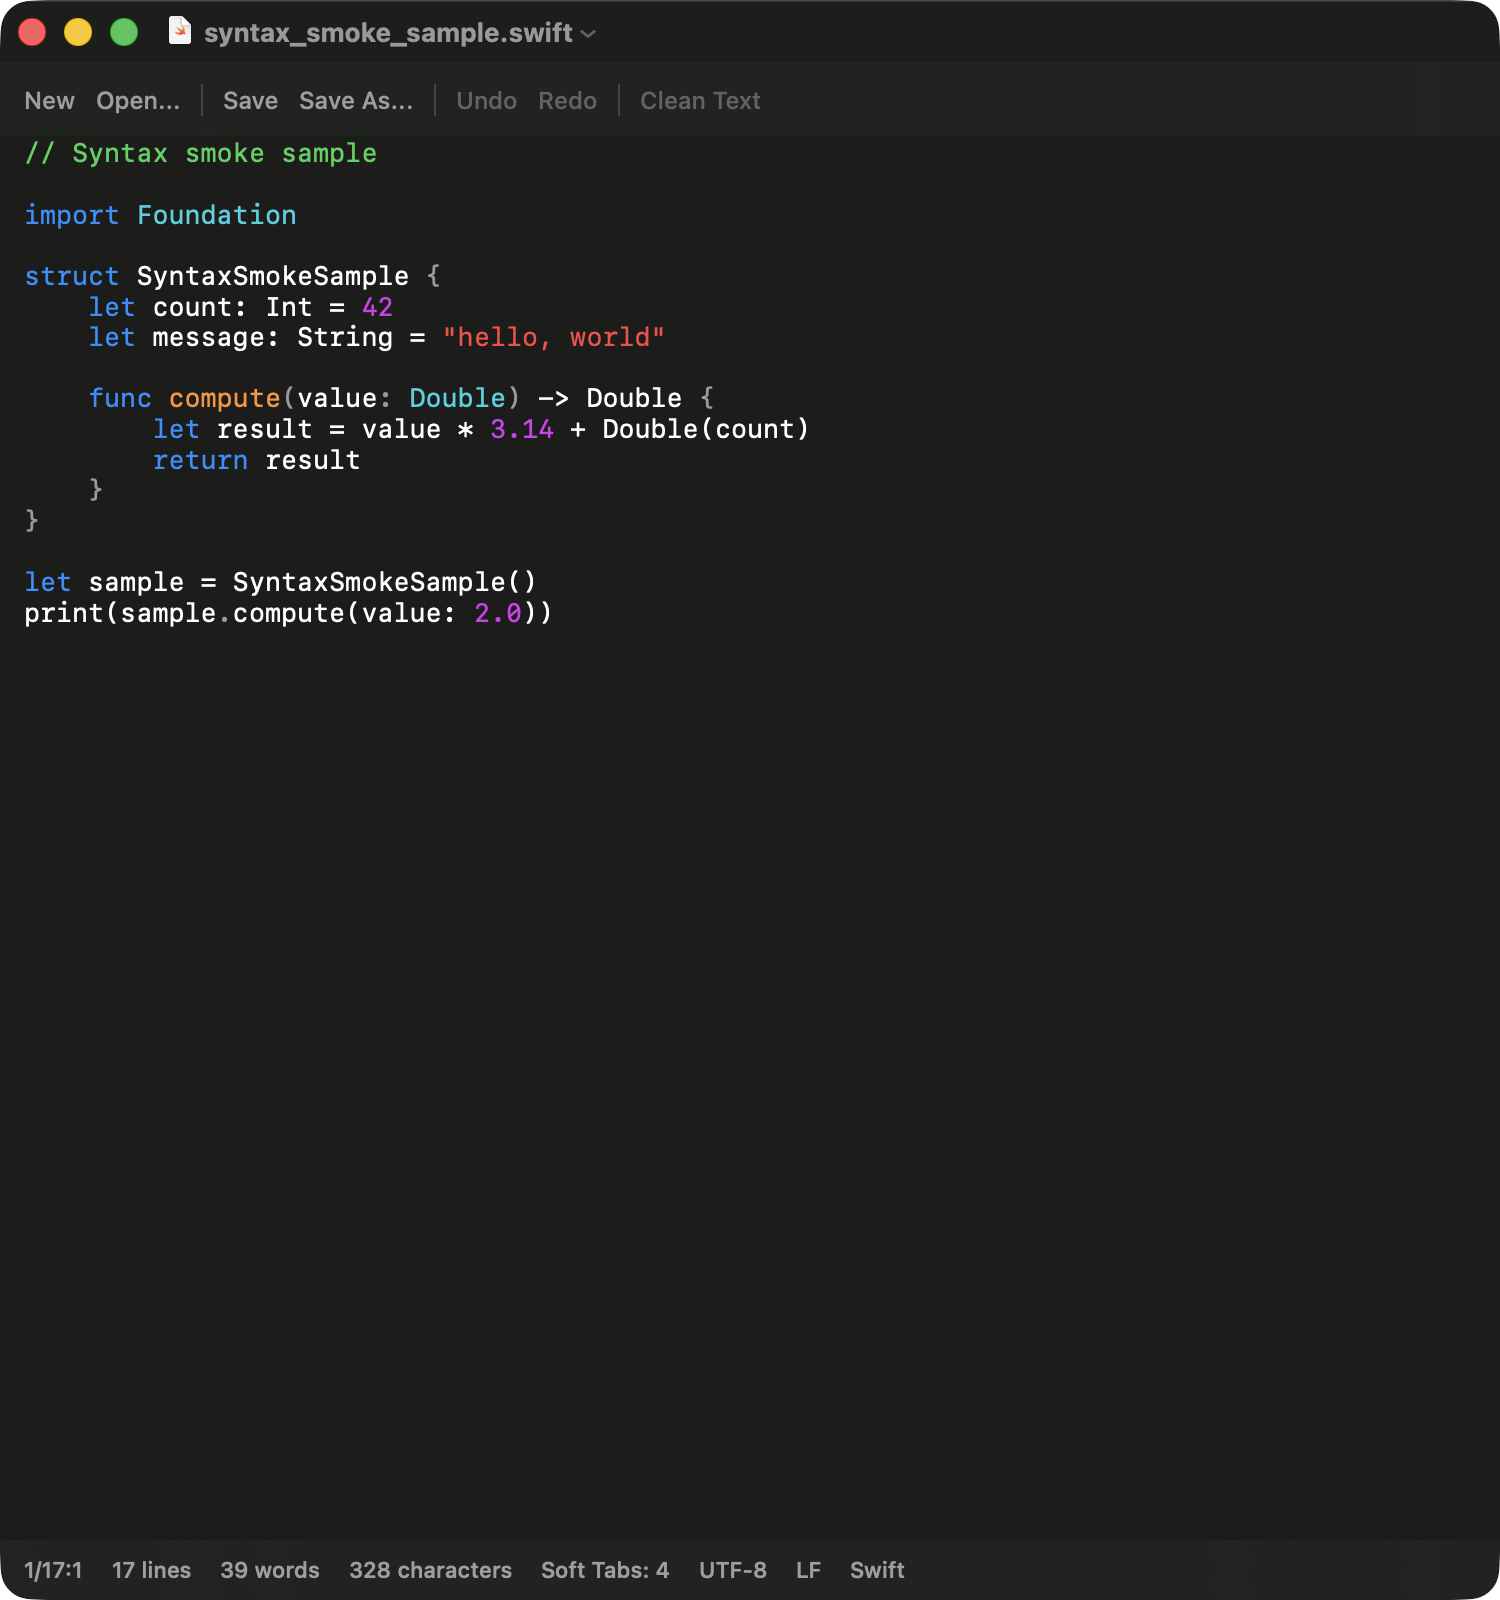
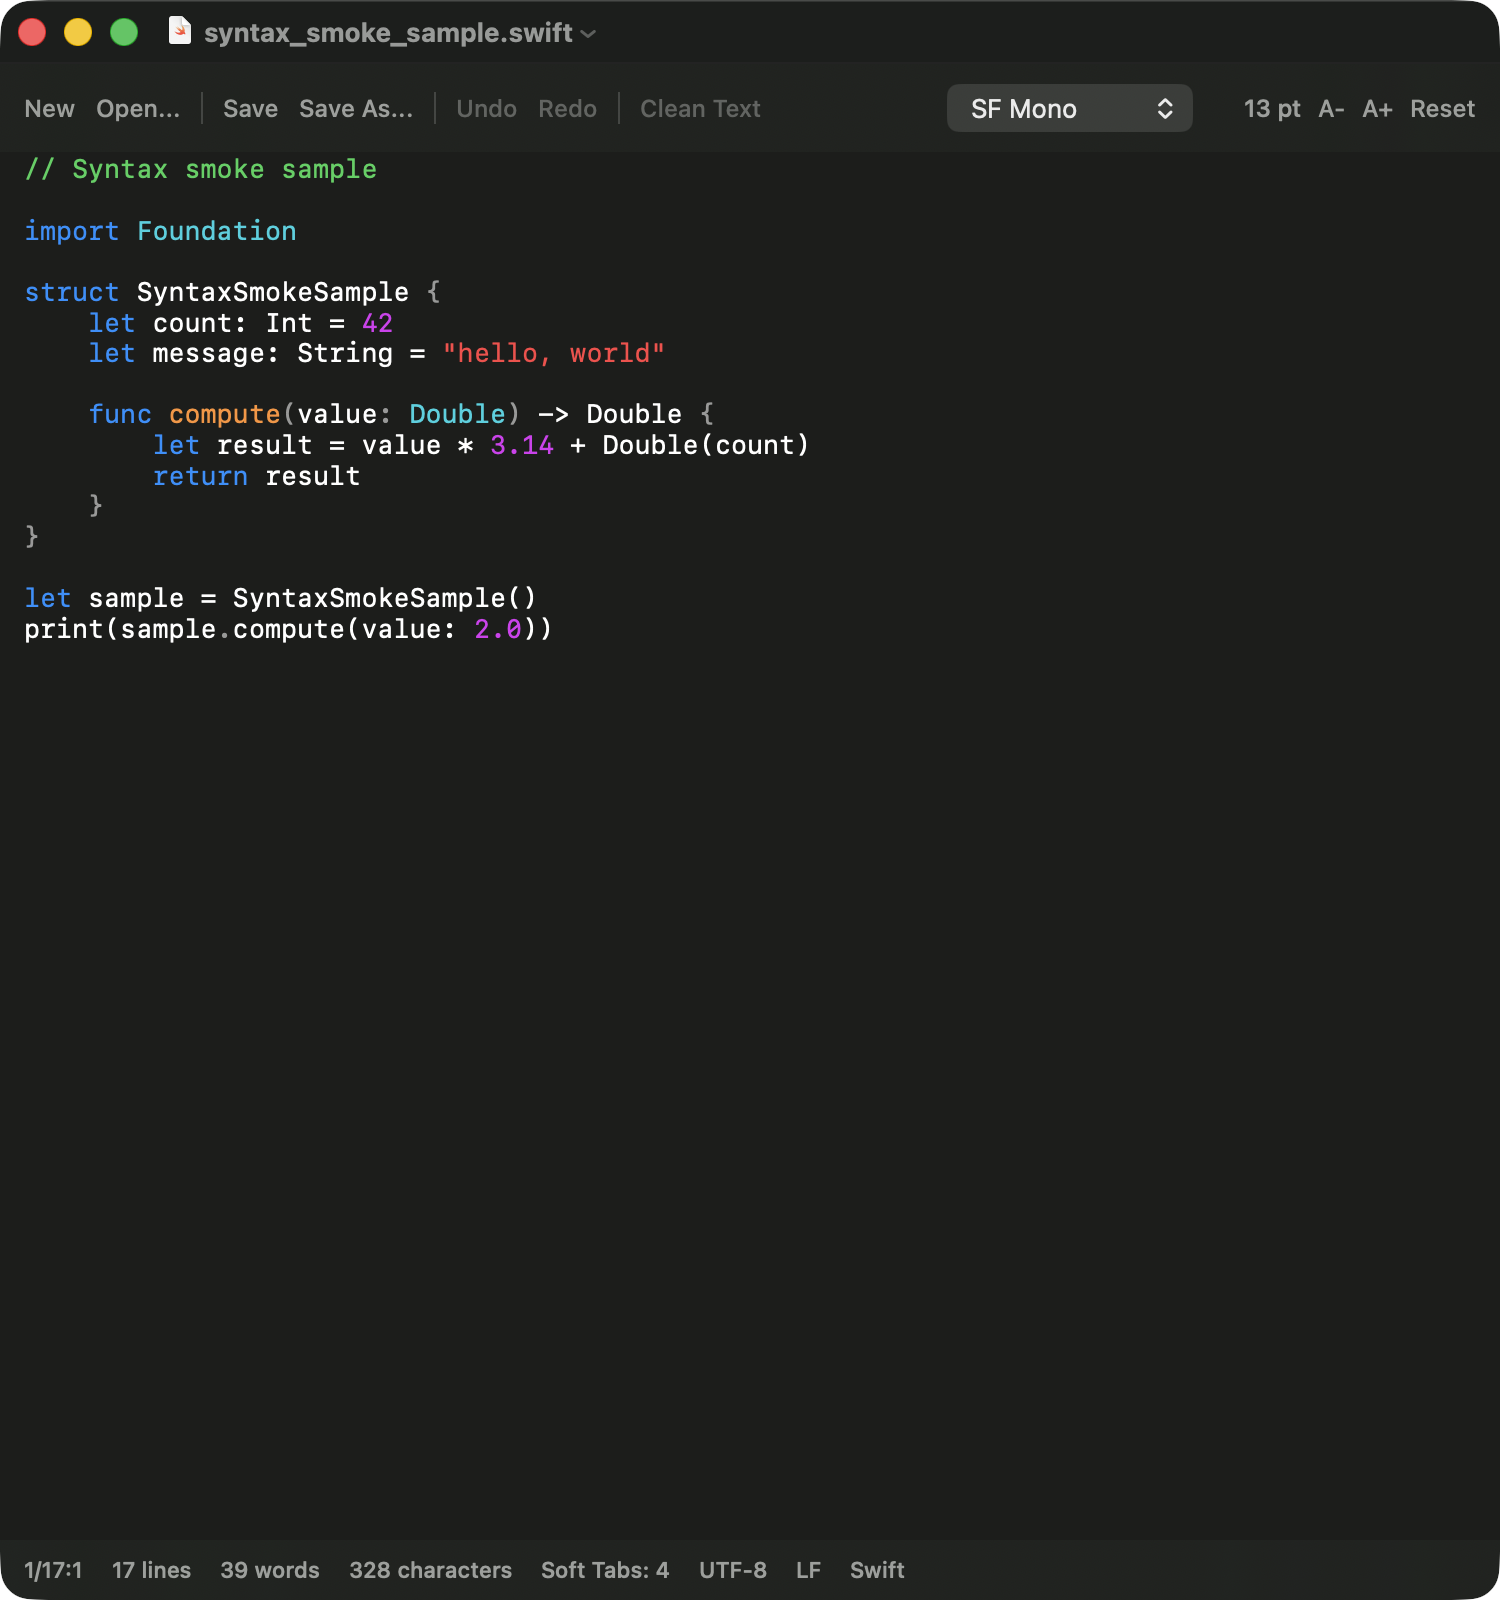
Added a plain-editor font control surface with persisted mo... (+1 more)
- Added a plain-editor font control surface with persisted monospace font family and font-size sett...
- Added package-smoke tests for plain-editor font defaults, font-size clamping, and invalid-font fa...

diff --git a/CodeEdit/Features/Editor/Views/CodeFileView.swift b/CodeEdit/Features/Editor/Views/CodeFileView.swift
@@ -15,10 +15,15 @@ struct CodeFileView: View {
     @ObservedObject private var codeFile: CodeFileDocument
     @StateObject private var chrome = PlainEditorChromeModel()
     @State private var activeTextView: TextView?
+    @AppStorage("PlainEditor.fontFamily") private var editorFontFamily = PlainEditorFontSettings.defaultFontFamily
+    @AppStorage("PlainEditor.fontSize") private var editorFontSize = PlainEditorFontSettings.defaultFontSize
 
     private let isEditable: Bool
     private let wrapLinesToEditorWidth = true
     private let useSystemCursor = true
+    private var editorFont: NSFont {
+        PlainEditorFontSettings.font(family: editorFontFamily, size: editorFontSize)
+    }
 
     init(codeFile: CodeFileDocument, isEditable: Bool = true) {
         self._codeFile = .init(wrappedValue: codeFile)
@@ -30,7 +35,9 @@ struct CodeFileView: View {
             PlainEditorCommandBar(
                 canSave: codeFile.isDocumentEdited || codeFile.fileURL != nil,
                 canUndo: activeTextView?.undoManager?.canUndo ?? false,
-                canRedo: activeTextView?.undoManager?.canRedo ?? false
+                canRedo: activeTextView?.undoManager?.canRedo ?? false,
+                fontFamily: $editorFontFamily,
+                fontSize: $editorFontSize
             )
 
             ZStack(alignment: .topLeading) {
@@ -43,7 +50,7 @@ struct CodeFileView: View {
                     isSelectable: true,
                     wrapLines: wrapLinesToEditorWidth,
                     useSystemCursor: useSystemCursor,
-                    font: .monospacedSystemFont(ofSize: NSFont.systemFontSize, weight: .regular),
+                    font: editorFont,
                     textColor: .textColor,
                     lineHeightMultiplier: 1,
                     edgeInsets: .init(left: 12, right: 12),
@@ -89,8 +96,45 @@ struct CodeFileView: View {
             debugRuntimeLog("CodeFileView appeared length=\(codeFile.content?.length ?? 0) editable=\(isEditable)")
             debugRuntimeLog("Plain editor command ribbon ready")
             debugRuntimeLog("Plain editor status bar ready")
+            logFontSettings()
             #endif
         }
+        .onChange(of: editorFontFamily) { _, _ in
+            logFontSettings()
+        }
+        .onChange(of: editorFontSize) { _, _ in
+            logFontSettings()
+        }
+    }
+
+    private func logFontSettings() {
+        #if DEBUG
+        debugRuntimeLog("Plain editor font settings: family=\(editorFontFamily) size=\(editorFontSize)")
+        #endif
+    }
+}
+
+enum PlainEditorFontSettings {
+    static let defaultFontFamily = "SF Mono"
+    static let defaultFontSize = 13.0
+    static let minimumFontSize = 9.0
+    static let maximumFontSize = 32.0
+    static let availableFontFamilies = [
+        "SF Mono",
+        "Menlo",
+        "Monaco",
+        "Courier New"
+    ]
+
+    static func font(family: String, size: Double) -> NSFont {
+        let clampedSize = min(max(size, minimumFontSize), maximumFontSize)
+        if family == defaultFontFamily {
+            return .monospacedSystemFont(ofSize: clampedSize, weight: .regular)
+        }
+        guard let font = NSFont(name: family, size: clampedSize), font.isFixedPitch else {
+            return .monospacedSystemFont(ofSize: clampedSize, weight: .regular)
+        }
+        return font
     }
 }
 
@@ -211,6 +255,8 @@ private struct PlainEditorCommandBar: View {
     let canSave: Bool
     let canUndo: Bool
     let canRedo: Bool
+    @Binding var fontFamily: String
+    @Binding var fontSize: Double
 
     var body: some View {
         HStack(spacing: 10) {
@@ -236,6 +282,8 @@ private struct PlainEditorCommandBar: View {
             })
             Divider().frame(height: 16)
             commandButton("Clean Text", isEnabled: false, action: { })
+            Spacer(minLength: 16)
+            fontControls
         }
         .font(.system(size: 12, weight: .medium))
         .padding(.horizontal, 12)
@@ -249,6 +297,35 @@ private struct PlainEditorCommandBar: View {
         Button(title, action: action)
             .buttonStyle(.borderless)
             .disabled(!isEnabled)
+    }
+
+    private var fontControls: some View {
+        HStack(spacing: 8) {
+            Picker("Font", selection: $fontFamily) {
+                ForEach(PlainEditorFontSettings.availableFontFamilies, id: \.self) { family in
+                    Text(family).tag(family)
+                }
+            }
+            .labelsHidden()
+            .frame(width: 132)
+
+            Text("\(Int(fontSize.rounded())) pt")
+                .foregroundStyle(.secondary)
+                .frame(width: 42, alignment: .trailing)
+
+            commandButton("A-", isEnabled: fontSize > PlainEditorFontSettings.minimumFontSize) {
+                fontSize = max(PlainEditorFontSettings.minimumFontSize, fontSize - 1)
+            }
+            commandButton("A+", isEnabled: fontSize < PlainEditorFontSettings.maximumFontSize) {
+                fontSize = min(PlainEditorFontSettings.maximumFontSize, fontSize + 1)
+            }
+            commandButton("Reset") {
+                fontFamily = PlainEditorFontSettings.defaultFontFamily
+                fontSize = PlainEditorFontSettings.defaultFontSize
+            }
+        }
+        .accessibilityElement(children: .contain)
+        .accessibilityLabel("Editor font controls")
     }
 }
 

diff --git a/Packages/CodeEditSyntaxDefinitions/Sources/CodeEditSyntaxDefinitions/CodeEditSyntaxDefinitions.swift b/Packages/CodeEditSyntaxDefinitions/Sources/CodeEditSyntaxDefinitions/CodeEditSyntaxDefinitions.swift
@@ -482,7 +482,7 @@ enum SyntaxDefinitionLoader {
     }
 
     private static func expandPattern(_ pattern: String, entities: [String: String]) -> String {
-        expandEntities(pattern, entities: entities)
+        decodeNumericEntities(expandEntities(pattern, entities: entities))
             .replacingOccurrences(of: "&quot;", with: "\"")
             .replacingOccurrences(of: "&lt;", with: "<")
             .replacingOccurrences(of: "&gt;", with: ">")
@@ -502,6 +502,35 @@ enum SyntaxDefinitionLoader {
             }
             if !replaced { break }
         }
+        return output
+    }
+
+    private static func decodeNumericEntities(_ text: String) -> String {
+        let pattern = #"&#(?:x([0-9A-Fa-f]+)|([0-9]+));"#
+        guard let regex = try? NSRegularExpression(pattern: pattern) else {
+            return text
+        }
+
+        var output = ""
+        var lastIndex = text.startIndex
+        let fullRange = NSRange(location: 0, length: (text as NSString).length)
+        for match in regex.matches(in: text, range: fullRange) {
+            guard let matchRange = Range(match.range, in: text) else { continue }
+            output.append(contentsOf: text[lastIndex..<matchRange.lowerBound])
+
+            let hexRange = Range(match.range(at: 1), in: text)
+            let decimalRange = Range(match.range(at: 2), in: text)
+            let scalarValue = hexRange
+                .flatMap { UInt32(text[$0], radix: 16) }
+                ?? decimalRange.flatMap { UInt32(text[$0], radix: 10) }
+            if let scalarValue, let scalar = UnicodeScalar(scalarValue) {
+                output.append(Character(scalar))
+            } else {
+                output.append(contentsOf: text[matchRange])
+            }
+            lastIndex = matchRange.upperBound
+        }
+        output.append(contentsOf: text[lastIndex...])
         return output
     }
 

diff --git a/CodeEdit/Features/Editor/Views/PlainTextEditorView.swift b/CodeEdit/Features/Editor/Views/PlainTextEditorView.swift
@@ -92,6 +92,7 @@ struct PlainTextEditorView: NSViewControllerRepresentable {
             useSystemCursor: useSystemCursor
         )
         textView.setTextStorage(textStorage)
+        applyFont(to: textStorage)
         onTextStorageReady?(textStorage)
         textView.edgeInsets = edgeInsets
         textView.textInsets = textInsets
@@ -134,8 +135,9 @@ struct PlainTextEditorView: NSViewControllerRepresentable {
 
         if textView.string != textStorage.string {
             textView.setTextStorage(textStorage)
-            onTextStorageReady?(textStorage)
         }
+        applyFont(to: textStorage)
+        onTextStorageReady?(textStorage)
 
         textView.isEditable = isEditable
         textView.isSelectable = isSelectable
@@ -153,5 +155,11 @@ struct PlainTextEditorView: NSViewControllerRepresentable {
         #if DEBUG
         debugRuntimeLog("PlainTextEditorView requested first responder editable=\(textView.isEditable)")
         #endif
+    }
+
+    private func applyFont(to storage: NSTextStorage) {
+        let range = NSRange(location: 0, length: storage.length)
+        guard range.length > 0 else { return }
+        storage.addAttribute(.font, value: font, range: range)
     }
 }

diff --git a/Package.swift b/Package.swift
@@ -124,6 +124,7 @@ let package = Package(
             path: "CodeEditTests/PackageSmoke",
             sources: [
                 "CodeFileDocumentLifecycleTests.swift",
+                "PlainEditorFontSettingsTests.swift",
                 "PlainTextCleanerTests.swift",
                 "PlainSyntaxHighlighterTests.swift",
                 "UndoManagerRegistrationTests.swift"

diff --git a/MILESTONE2_CHECKLIST.md b/MILESTONE2_CHECKLIST.md
@@ -185,19 +185,19 @@ Goal: Let the user customize the editor font family and font size without breaki
 
 Checklist:
 
-- [ ] Add an editor font preference.
-- [ ] Add an editor font-size preference.
+- [x] Add an editor font preference.
+- [x] Add an editor font-size preference.
 - [x] Use a sensible default monospace font.
 - [x] Use a sensible default font size.
-- [ ] Allow the editor font family to be changed from settings or an editor appearance control.
-- [ ] Allow the editor font size to be increased.
-- [ ] Allow the editor font size to be decreased.
-- [ ] Allow the editor font size to be reset to the default.
-- [ ] Persist the selected font family.
-- [ ] Persist the selected font size.
-- [ ] Apply the selected font family to the active editor.
-- [ ] Apply the selected font size to the active editor.
-- [ ] Apply font changes without requiring the document to be reopened where practical.
+- [x] Allow the editor font family to be changed from settings or an editor appearance control.
+- [x] Allow the editor font size to be increased.
+- [x] Allow the editor font size to be decreased.
+- [x] Allow the editor font size to be reset to the default.
+- [x] Persist the selected font family.
+- [x] Persist the selected font size.
+- [x] Apply the selected font family to the active editor.
+- [x] Apply the selected font size to the active editor.
+- [x] Apply font changes without requiring the document to be reopened where practical.
 - [ ] Confirm syntax highlighting remains visible after changing font.
 - [ ] Confirm cursor position and text selection remain usable after changing font.
 - [ ] Confirm line height and scrolling remain usable after changing font.
@@ -205,16 +205,16 @@ Checklist:
 - [ ] Confirm the command bar remains readable after font-size changes.
 - [ ] Confirm light mode remains readable after font changes.
 - [ ] Confirm dark mode remains readable after font changes.
-- [ ] Confirm invalid or unavailable fonts fall back to a safe default.
+- [x] Confirm invalid or unavailable fonts fall back to a safe default.
 - [ ] Confirm large font sizes do not break the editor layout.
 - [ ] Confirm small font sizes do not make the editor unusable by default.
-- [ ] Add smoke/log validation for persisted font settings where practical.
-- [ ] Add screenshot evidence when display access exists.
-- [ ] Update docs to describe editor font and font-size customization.
+- [x] Add smoke/log validation for persisted font settings where practical.
+- [x] Add screenshot evidence when display access exists.
+- [x] Update docs to describe editor font and font-size customization.
 
 Verification:
 
-- [ ] Open a known file.
+- [x] Open a known file.
 - [ ] Change the editor font family.
 - [ ] Confirm the visible editor font changes.
 - [ ] Change the editor font size.
@@ -224,8 +224,8 @@ Verification:
 - [ ] Confirm the selected font size persists.
 - [ ] Reset to the default font settings.
 - [ ] Confirm the editor returns to the default appearance.
-- [ ] Run `./build_debug.sh`.
-- [ ] Run `./scripts/plain_editor_smoke.sh`.
+- [x] Run `./build_debug.sh`.
+- [x] Run `./scripts/plain_editor_smoke.sh`.
 
 ---
 

diff --git a/MILESTONE1_CHECKLIST.md b/MILESTONE1_CHECKLIST.md
@@ -34,9 +34,9 @@
 ## Editing Behavior
 
 - [x] Confirm the editor accepts keyboard focus.
-- [ ] Confirm typing changes the document model.
-- [ ] Confirm Undo works.
-- [ ] Confirm Redo works.
+- [x] Confirm typing changes the document model.
+- [x] Confirm Undo works.
+- [x] Confirm Redo works.
 - [ ] Confirm Cut works.
 - [ ] Confirm Copy works.
 - [ ] Confirm Paste works.

diff --git a/docs/CHANGELOG.md b/docs/CHANGELOG.md
@@ -5,6 +5,8 @@
 - Reworked the KDE XML syntax path to preserve context-scoped rules, context transitions, included contexts, and default context attributes instead of flattening all rules globally.
 - Fixed Swift highlighting regressions where the live editor could show no colors, all white text, or over-broad red styling by selecting the first/root Kate context correctly and preserving KDE `attribute` style names through theme mapping.
 - Added focused syntax tests that prove loaded KDE Swift XML styles classify imports, keywords, strings, numbers, functions, and data types without misclassifying ordinary identifiers as strings.
+- Added a plain-editor font control surface with persisted monospace font family and font-size settings, plus smoke-log evidence for mounted font settings.
+- Added package-smoke tests for plain-editor font defaults, font-size clamping, and invalid-font fallback.
 - Added `docs/DEVELOPER_USAGE.md` to document the primary build, smoke, and inspection scripts for the plain-editor lane.
 - Switched the plain-editor smoke path to use a richer committed Swift sample so live syntax highlighting can prove multiple token colors in the screenshot path with a deterministic fixture.
 - Explicitly show and order the default document window when the plain-editor file document creates it, restoring visible launch for the smoke path.

diff --git a/docs/DEVELOPER_USAGE.md b/docs/DEVELOPER_USAGE.md
@@ -38,5 +38,6 @@ This repository is driven by a small set of scripts. Use these first.
 - the app launches through the file-backed plain editor path
 - the default source file opens
 - the top command bar is present
+- the editor font controls are mounted and report their persisted settings
 - the bottom status bar is present
 - the editor stays visible long enough for a screenshot capture

diff --git a/docs/SMOKE_TEST.md b/docs/SMOKE_TEST.md
@@ -26,6 +26,7 @@ Open `tests/fixtures/syntax_smoke_sample.swift` on debug launch. The window titl
 - Save writes the edited text to disk.
 - Open, Save, Close, Undo, Redo, Cut, Copy, Paste, Select All, and Find are present in the app menus.
 - The plain-editor window shows a top command bar with New, Open, Save, Save As, Undo, Redo, and Clean Text.
+- The top command bar includes editor font controls for monospace family, font size increase/decrease, and reset.
 - The plain-editor window shows a bottom status bar with cursor position, word count, character count, indentation, encoding, line ending, and syntax mode.
 - Syntax highlighting is driven by the bundled KDE XML syntax definitions.
 - The smoke sample includes comments, strings, numbers, keywords, and function/type usage so the live screenshot can prove multi-color highlighting.